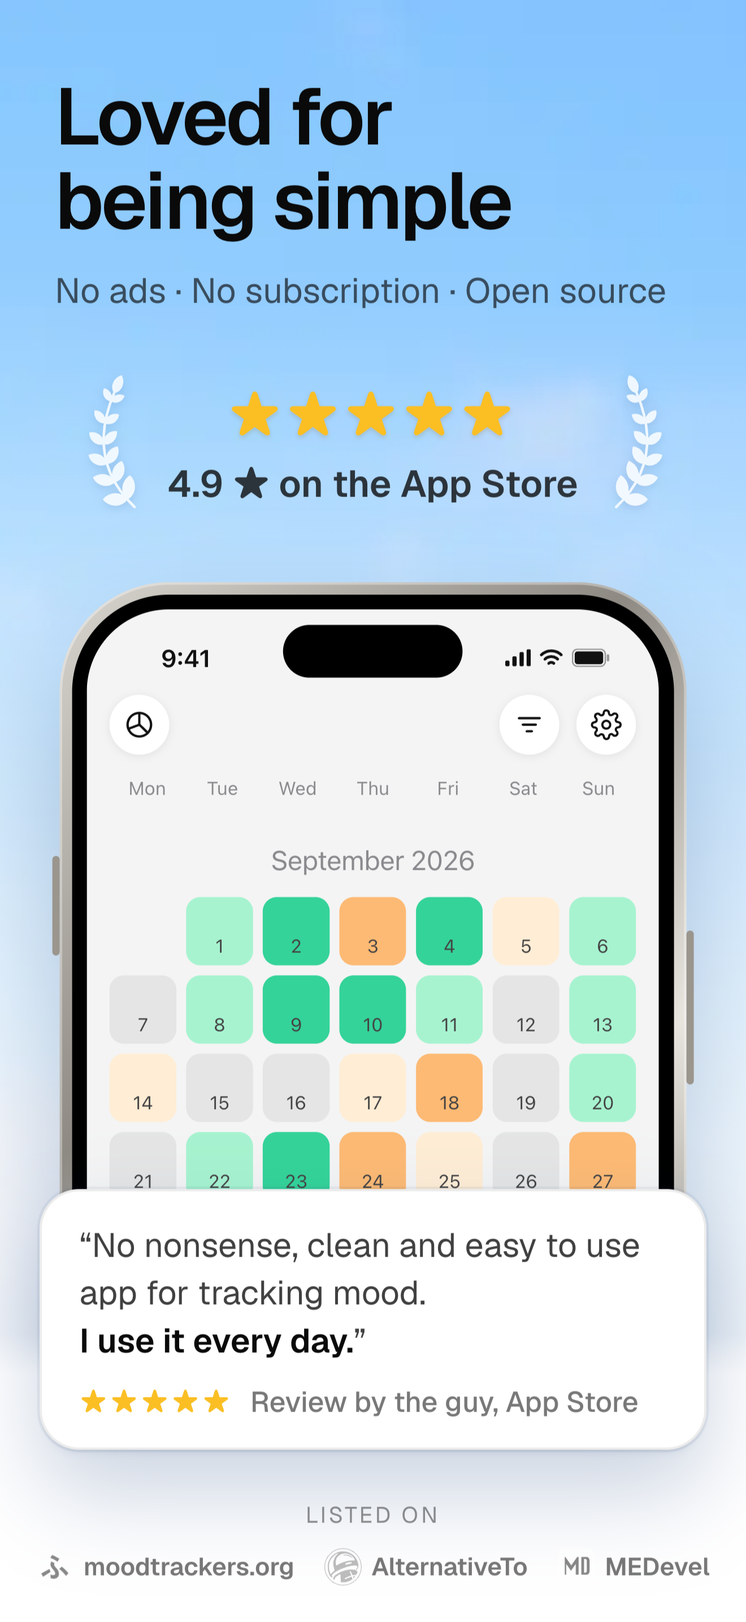
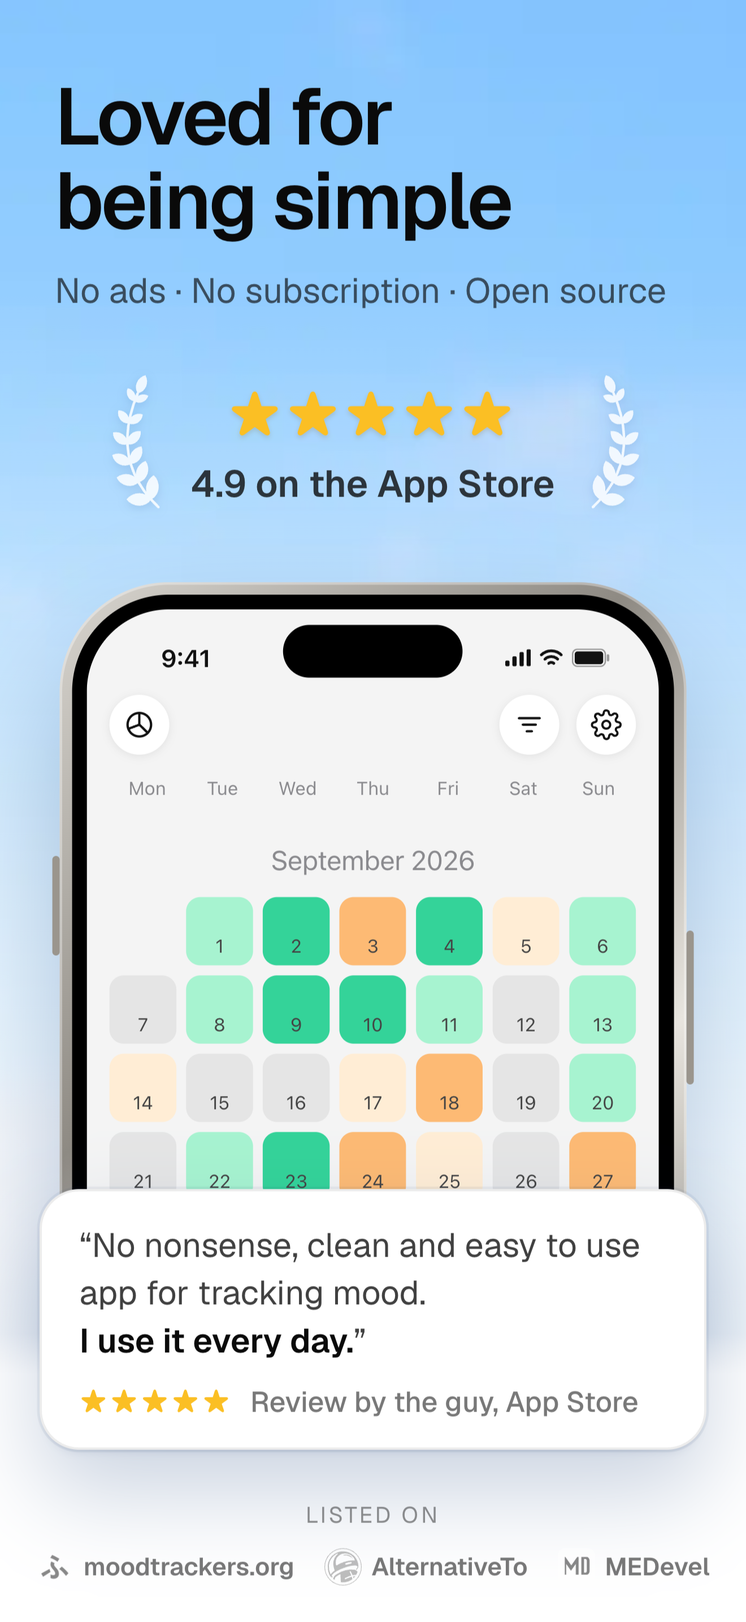
docs(store-screenshots): drop duplicate star from App Store rating line

Changed region(s): [[0.1242, 0.2172, 0.9008, 0.3103]]

diff --git a/docs/store-screenshots/index.html b/docs/store-screenshots/index.html
@@ -179,7 +179,7 @@ radial-gradient(1.4px 1.4px at 18% 10%,#fff,transparent),radial-gradient(1px 1px
 </style></head><body><main>
 <h1>Pixy store screenshots</h1>
 <p class="muted">Separate sets for the App Store and Google Play (copy and order in <code>STORES</code> in build.py). Spec: <a href="app-screens.md">app-screens.md</a>. Rebuild: <code>python3 build.py</code>, export PNGs: <code>./export.sh</code>, then serve this folder (<code>python3 -m http.server</code>).</p>
-<div class="platform"><h2>iPhone · App Store</h2></div><div class="set " data-store="apple"><div class="slot" data-name="calendar"><div class="scr "><h4 class="">Your days,<br>in pixels.</h4><div class="sub">Log a mood in seconds.</div><div class="phA" style="top:186px;left:24%;transform:translateX(-50%) rotate(-5deg) scale(.85);transform-origin:50% 0;"><div class="bz"><div class="sc" data-app="mood" data-args=''></div></div></div><div class="phA" style="top:150px;left:76%;transform:translateX(-50%) rotate(5deg) scale(.85);transform-origin:50% 0;z-index:2;"><div class="bz"><div class="sc" data-app="calendar" data-args=''></div></div></div></div><div class="lab"><b>1 · calendar.</b> Pixel calendar. Mood logger behind, calendar in front and higher.</div></div><div class="slot" data-name="year"><div class="scr "><h4 class="">Your whole year<br>at a glance</h4><div class="sub">One pixel for every day.</div><div class="phA" style="top:156px;transform:translateX(-50%) scale(var(--fit));transform-origin:50% 0;"><div class="bz"><div class="sc" data-app="year" data-args=''></div></div></div></div><div class="lab"><b>2 · year.</b> Year Report: Year in Pixels.</div></div><div class="slot" data-name="emotions"><div class="scr "><h4 class="">72 emotions,<br>each explained.</h4><div class="sub">Name what you feel.</div><div class="phA" style="top:156px;transform:translateX(-50%) scale(var(--fit));transform-origin:50% 0;"><div class="bz"><div class="sc" data-app="emotions" data-args=''></div></div></div><div class="zoom" style="top:500px"><span class="zc on" data-emo="calm"></span><span class="zc on" data-emo="hopeful"></span><span class="zc" data-emo="grateful"></span><span class="zc" data-emo="anxious"></span></div></div><div class="lab"><b>3 · emotions.</b> Logger emotions slide, Calm, Hopeful, Grateful, Anxious popped out.</div></div><div class="slot" data-name="proof"><div class="scr proof"><h4 class="">Loved for<br>being simple</h4><div class="sub">No ads · No subscription · Open source</div><div class="stats"><div class="award"><svg width="44" height="82" viewBox="-10 -12 64 116" fill="#fff" shape-rendering="geometricPrecision"><g><path d="M40 94 Q2 58 24 6" fill="none" stroke="#fff" stroke-width="2" stroke-linecap="round"/><path d="M0 0 C 6.5 -4 6.5 -14 0 -19 C -6.5 -14 -6.5 -4 0 0 Z" transform="translate(34.30 88.14) rotate(-89.7) scale(1.00)"/><path d="M0 0 C 6.5 -4 6.5 -14 0 -19 C -6.5 -14 -6.5 -4 0 0 Z" transform="translate(34.30 88.14) rotate(6.3) scale(1.00)"/><path d="M0 0 C 6.5 -4 6.5 -14 0 -19 C -6.5 -14 -6.5 -4 0 0 Z" transform="translate(24.66 74.84) rotate(-77.7) scale(0.92)"/><path d="M0 0 C 6.5 -4 6.5 -14 0 -19 C -6.5 -14 -6.5 -4 0 0 Z" transform="translate(24.66 74.84) rotate(18.3) scale(0.92)"/><path d="M0 0 C 6.5 -4 6.5 -14 0 -19 C -6.5 -14 -6.5 -4 0 0 Z" transform="translate(18.56 60.60) rotate(-64.4) scale(0.84)"/><path d="M0 0 C 6.5 -4 6.5 -14 0 -19 C -6.5 -14 -6.5 -4 0 0 Z" transform="translate(18.56 60.60) rotate(31.6) scale(0.84)"/><path d="M0 0 C 6.5 -4 6.5 -14 0 -19 C -6.5 -14 -6.5 -4 0 0 Z" transform="translate(16.02 45.40) rotate(-50.8) scale(0.76)"/><path d="M0 0 C 6.5 -4 6.5 -14 0 -19 C -6.5 -14 -6.5 -4 0 0 Z" transform="translate(16.02 45.40) rotate(45.2) scale(0.76)"/><path d="M0 0 C 6.5 -4 6.5 -14 0 -19 C -6.5 -14 -6.5 -4 0 0 Z" transform="translate(17.02 29.27) rotate(-38.5) scale(0.68)"/><path d="M0 0 C 6.5 -4 6.5 -14 0 -19 C -6.5 -14 -6.5 -4 0 0 Z" transform="translate(17.02 29.27) rotate(57.5) scale(0.68)"/><path d="M0 0 C 6.5 -4 6.5 -14 0 -19 C -6.5 -14 -6.5 -4 0 0 Z" transform="translate(21.58 12.18) rotate(-28.2) scale(0.60)"/><path d="M0 0 C 6.5 -4 6.5 -14 0 -19 C -6.5 -14 -6.5 -4 0 0 Z" transform="translate(21.58 12.18) rotate(67.8) scale(0.60)"/><path d="M0 0 C 6.5 -4 6.5 -14 0 -19 C -6.5 -14 -6.5 -4 0 0 Z" transform="translate(24.00 6.00) rotate(22.9) scale(0.8)"/></g></svg><div class="mid"><div class="rt"><span class="star">★★★★★</span></div><b>4.9 ★ on the App Store</b></div><svg width="44" height="82" viewBox="-10 -12 64 116" fill="#fff" shape-rendering="geometricPrecision"><g transform="scale(-1,1) translate(-48,0)"><path d="M40 94 Q2 58 24 6" fill="none" stroke="#fff" stroke-width="2" stroke-linecap="round"/><path d="M0 0 C 6.5 -4 6.5 -14 0 -19 C -6.5 -14 -6.5 -4 0 0 Z" transform="translate(34.30 88.14) rotate(-89.7) scale(1.00)"/><path d="M0 0 C 6.5 -4 6.5 -14 0 -19 C -6.5 -14 -6.5 -4 0 0 Z" transform="translate(34.30 88.14) rotate(6.3) scale(1.00)"/><path d="M0 0 C 6.5 -4 6.5 -14 0 -19 C -6.5 -14 -6.5 -4 0 0 Z" transform="translate(24.66 74.84) rotate(-77.7) scale(0.92)"/><path d="M0 0 C 6.5 -4 6.5 -14 0 -19 C -6.5 -14 -6.5 -4 0 0 Z" transform="translate(24.66 74.84) rotate(18.3) scale(0.92)"/><path d="M0 0 C 6.5 -4 6.5 -14 0 -19 C -6.5 -14 -6.5 -4 0 0 Z" transform="translate(18.56 60.60) rotate(-64.4) scale(0.84)"/><path d="M0 0 C 6.5 -4 6.5 -14 0 -19 C -6.5 -14 -6.5 -4 0 0 Z" transform="translate(18.56 60.60) rotate(31.6) scale(0.84)"/><path d="M0 0 C 6.5 -4 6.5 -14 0 -19 C -6.5 -14 -6.5 -4 0 0 Z" transform="translate(16.02 45.40) rotate(-50.8) scale(0.76)"/><path d="M0 0 C 6.5 -4 6.5 -14 0 -19 C -6.5 -14 -6.5 -4 0 0 Z" transform="translate(16.02 45.40) rotate(45.2) scale(0.76)"/><path d="M0 0 C 6.5 -4 6.5 -14 0 -19 C -6.5 -14 -6.5 -4 0 0 Z" transform="translate(17.02 29.27) rotate(-38.5) scale(0.68)"/><path d="M0 0 C 6.5 -4 6.5 -14 0 -19 C -6.5 -14 -6.5 -4 0 0 Z" transform="translate(17.02 29.27) rotate(57.5) scale(0.68)"/><path d="M0 0 C 6.5 -4 6.5 -14 0 -19 C -6.5 -14 -6.5 -4 0 0 Z" transform="translate(21.58 12.18) rotate(-28.2) scale(0.60)"/><path d="M0 0 C 6.5 -4 6.5 -14 0 -19 C -6.5 -14 -6.5 -4 0 0 Z" transform="translate(21.58 12.18) rotate(67.8) scale(0.60)"/><path d="M0 0 C 6.5 -4 6.5 -14 0 -19 C -6.5 -14 -6.5 -4 0 0 Z" transform="translate(24.00 6.00) rotate(22.9) scale(0.8)"/></g></svg></div></div><div class="phA" style="top:234px;"><div class="bz"><div class="sc" data-app="calendar" data-args=''></div></div></div><div class="pfade"></div><div class="qcard">“No nonsense, clean and easy to use app for tracking mood.<br><b>I use it every day.</b>”<small><span class="star">★★★★★</span>Review by the guy, App Store</small></div><div class="lbar"><div class="lo2">Listed on</div><div class="logos2"><span class="lg lgtxt"><img src="logos/moodtrackers-org.png" alt="">moodtrackers.org</span><span class="lg lgtxt"><img src="logos/alternativeto.svg" alt="">AlternativeTo</span><span class="lg lgtxt"><img src="logos/medevel.png" alt="">MEDevel</span></div></div></div><div class="lab"><b>4 · proof.</b> Social proof (App Store only): App Store rating, review card over the calendar, Listed on row.</div></div><div class="slot" data-name="stats"><div class="scr "><h4 class="">See your<br>patterns</h4><div class="sub">Mood trends and reports.</div><div class="phA" style="top:156px;transform:translateX(-50%) scale(var(--fit));transform-origin:50% 0;"><div class="bz"><div class="sc" data-app="stats" data-args=''></div></div></div></div><div class="lab"><b>5 · stats.</b> Statistics highlights: mood average, mood chart, most felt emotions.</div></div><div class="slot" data-name="tags"><div class="scr "><h4 class="">Tag what<br>matters</h4><div class="sub">Add tags and a note.</div><div class="phA" style="top:186px;left:24%;transform:translateX(-50%) rotate(-5deg) scale(.85);transform-origin:50% 0;"><div class="bz"><div class="sc" data-app="note" data-args=''></div></div></div><div class="phA" style="top:150px;left:76%;transform:translateX(-50%) rotate(5deg) scale(.85);transform-origin:50% 0;z-index:2;"><div class="bz"><div class="sc" data-app="tags" data-args=''></div></div></div><div class="zoom" style="top:500px"><span class="zc on"><i style="background:#22c55e"></i>Sport</span><span class="zc on"><i style="background:#f59e0b"></i>Hyperfocus</span><span class="zc on"><i style="background:#8b5cf6"></i>Took meds</span><span class="zc on"><i style="background:#3b82f6"></i>Meetings</span></div></div><div class="lab"><b>6 · tags.</b> Note slide behind, tags slide in front, own tags popped out.</div></div><div class="slot" data-name="sleep"><div class="scr "><h4 class="">Track your<br>sleep</h4><div class="sub">Rate each night in a tap.</div><div class="phA" style="top:156px;transform:translateX(-50%) scale(var(--fit));transform-origin:50% 0;"><div class="bz"><div class="sc" data-app="sleep" data-args=''></div></div></div><div class="popcard" data-card="sleepchart" style="left:50%;top:430px;transform:translateX(-50%) scale(.7);transform-origin:50% 0"></div></div><div class="lab"><b>7 · sleep.</b> Sleep slide, sleep quality chart popped out.</div></div><div class="slot" data-name="data"><div class="scr "><h4 class="">No account.<br>No sign-up.</h4><div class="sub">Export or delete your data anytime.</div><div class="phA" style="top:156px;transform:translateX(-50%) scale(var(--fit));transform-origin:50% 0;"><div class="bz"><div class="sc" data-app="data" data-args=''></div></div></div><div class="zoom checks" style="top:440px"><div><svg width="22" height="22" viewBox="0 0 22 22"><circle cx="11" cy="11" r="10" fill="none" stroke="#34d399" stroke-width="1.6"/><path d="M6.5 11.5l3 3L15.5 8" stroke="#34d399" stroke-width="2" fill="none" stroke-linecap="round" stroke-linejoin="round"/></svg>No cloud sync</div><div><svg width="22" height="22" viewBox="0 0 22 22"><circle cx="11" cy="11" r="10" fill="none" stroke="#34d399" stroke-width="1.6"/><path d="M6.5 11.5l3 3L15.5 8" stroke="#34d399" stroke-width="2" fill="none" stroke-linecap="round" stroke-linejoin="round"/></svg>Export as JSON or CSV</div><div><svg width="22" height="22" viewBox="0 0 22 22"><circle cx="11" cy="11" r="10" fill="none" stroke="#34d399" stroke-width="1.6"/><path d="M6.5 11.5l3 3L15.5 8" stroke="#34d399" stroke-width="2" fill="none" stroke-linecap="round" stroke-linejoin="round"/></svg>Import on a new phone</div><div><svg width="22" height="22" viewBox="0 0 22 22"><circle cx="11" cy="11" r="10" fill="none" stroke="#34d399" stroke-width="1.6"/><path d="M6.5 11.5l3 3L15.5 8" stroke="#34d399" stroke-width="2" fill="none" stroke-linecap="round" stroke-linejoin="round"/></svg>No ads</div><div><svg width="22" height="22" viewBox="0 0 22 22"><circle cx="11" cy="11" r="10" fill="none" stroke="#34d399" stroke-width="1.6"/><path d="M6.5 11.5l3 3L15.5 8" stroke="#34d399" stroke-width="2" fill="none" stroke-linecap="round" stroke-linejoin="round"/></svg>Open source</div></div></div><div class="lab"><b>8 · data.</b> Settings > Data: import, JSON/CSV export, delete. Checklist card.</div></div></div>
+<div class="platform"><h2>iPhone · App Store</h2></div><div class="set " data-store="apple"><div class="slot" data-name="calendar"><div class="scr "><h4 class="">Your days,<br>in pixels.</h4><div class="sub">Log a mood in seconds.</div><div class="phA" style="top:186px;left:24%;transform:translateX(-50%) rotate(-5deg) scale(.85);transform-origin:50% 0;"><div class="bz"><div class="sc" data-app="mood" data-args=''></div></div></div><div class="phA" style="top:150px;left:76%;transform:translateX(-50%) rotate(5deg) scale(.85);transform-origin:50% 0;z-index:2;"><div class="bz"><div class="sc" data-app="calendar" data-args=''></div></div></div></div><div class="lab"><b>1 · calendar.</b> Pixel calendar. Mood logger behind, calendar in front and higher.</div></div><div class="slot" data-name="year"><div class="scr "><h4 class="">Your whole year<br>at a glance</h4><div class="sub">One pixel for every day.</div><div class="phA" style="top:156px;transform:translateX(-50%) scale(var(--fit));transform-origin:50% 0;"><div class="bz"><div class="sc" data-app="year" data-args=''></div></div></div></div><div class="lab"><b>2 · year.</b> Year Report: Year in Pixels.</div></div><div class="slot" data-name="emotions"><div class="scr "><h4 class="">72 emotions,<br>each explained.</h4><div class="sub">Name what you feel.</div><div class="phA" style="top:156px;transform:translateX(-50%) scale(var(--fit));transform-origin:50% 0;"><div class="bz"><div class="sc" data-app="emotions" data-args=''></div></div></div><div class="zoom" style="top:500px"><span class="zc on" data-emo="calm"></span><span class="zc on" data-emo="hopeful"></span><span class="zc" data-emo="grateful"></span><span class="zc" data-emo="anxious"></span></div></div><div class="lab"><b>3 · emotions.</b> Logger emotions slide, Calm, Hopeful, Grateful, Anxious popped out.</div></div><div class="slot" data-name="proof"><div class="scr proof"><h4 class="">Loved for<br>being simple</h4><div class="sub">No ads · No subscription · Open source</div><div class="stats"><div class="award"><svg width="44" height="82" viewBox="-10 -12 64 116" fill="#fff" shape-rendering="geometricPrecision"><g><path d="M40 94 Q2 58 24 6" fill="none" stroke="#fff" stroke-width="2" stroke-linecap="round"/><path d="M0 0 C 6.5 -4 6.5 -14 0 -19 C -6.5 -14 -6.5 -4 0 0 Z" transform="translate(34.30 88.14) rotate(-89.7) scale(1.00)"/><path d="M0 0 C 6.5 -4 6.5 -14 0 -19 C -6.5 -14 -6.5 -4 0 0 Z" transform="translate(34.30 88.14) rotate(6.3) scale(1.00)"/><path d="M0 0 C 6.5 -4 6.5 -14 0 -19 C -6.5 -14 -6.5 -4 0 0 Z" transform="translate(24.66 74.84) rotate(-77.7) scale(0.92)"/><path d="M0 0 C 6.5 -4 6.5 -14 0 -19 C -6.5 -14 -6.5 -4 0 0 Z" transform="translate(24.66 74.84) rotate(18.3) scale(0.92)"/><path d="M0 0 C 6.5 -4 6.5 -14 0 -19 C -6.5 -14 -6.5 -4 0 0 Z" transform="translate(18.56 60.60) rotate(-64.4) scale(0.84)"/><path d="M0 0 C 6.5 -4 6.5 -14 0 -19 C -6.5 -14 -6.5 -4 0 0 Z" transform="translate(18.56 60.60) rotate(31.6) scale(0.84)"/><path d="M0 0 C 6.5 -4 6.5 -14 0 -19 C -6.5 -14 -6.5 -4 0 0 Z" transform="translate(16.02 45.40) rotate(-50.8) scale(0.76)"/><path d="M0 0 C 6.5 -4 6.5 -14 0 -19 C -6.5 -14 -6.5 -4 0 0 Z" transform="translate(16.02 45.40) rotate(45.2) scale(0.76)"/><path d="M0 0 C 6.5 -4 6.5 -14 0 -19 C -6.5 -14 -6.5 -4 0 0 Z" transform="translate(17.02 29.27) rotate(-38.5) scale(0.68)"/><path d="M0 0 C 6.5 -4 6.5 -14 0 -19 C -6.5 -14 -6.5 -4 0 0 Z" transform="translate(17.02 29.27) rotate(57.5) scale(0.68)"/><path d="M0 0 C 6.5 -4 6.5 -14 0 -19 C -6.5 -14 -6.5 -4 0 0 Z" transform="translate(21.58 12.18) rotate(-28.2) scale(0.60)"/><path d="M0 0 C 6.5 -4 6.5 -14 0 -19 C -6.5 -14 -6.5 -4 0 0 Z" transform="translate(21.58 12.18) rotate(67.8) scale(0.60)"/><path d="M0 0 C 6.5 -4 6.5 -14 0 -19 C -6.5 -14 -6.5 -4 0 0 Z" transform="translate(24.00 6.00) rotate(22.9) scale(0.8)"/></g></svg><div class="mid"><div class="rt"><span class="star">★★★★★</span></div><b>4.9 on the App Store</b></div><svg width="44" height="82" viewBox="-10 -12 64 116" fill="#fff" shape-rendering="geometricPrecision"><g transform="scale(-1,1) translate(-48,0)"><path d="M40 94 Q2 58 24 6" fill="none" stroke="#fff" stroke-width="2" stroke-linecap="round"/><path d="M0 0 C 6.5 -4 6.5 -14 0 -19 C -6.5 -14 -6.5 -4 0 0 Z" transform="translate(34.30 88.14) rotate(-89.7) scale(1.00)"/><path d="M0 0 C 6.5 -4 6.5 -14 0 -19 C -6.5 -14 -6.5 -4 0 0 Z" transform="translate(34.30 88.14) rotate(6.3) scale(1.00)"/><path d="M0 0 C 6.5 -4 6.5 -14 0 -19 C -6.5 -14 -6.5 -4 0 0 Z" transform="translate(24.66 74.84) rotate(-77.7) scale(0.92)"/><path d="M0 0 C 6.5 -4 6.5 -14 0 -19 C -6.5 -14 -6.5 -4 0 0 Z" transform="translate(24.66 74.84) rotate(18.3) scale(0.92)"/><path d="M0 0 C 6.5 -4 6.5 -14 0 -19 C -6.5 -14 -6.5 -4 0 0 Z" transform="translate(18.56 60.60) rotate(-64.4) scale(0.84)"/><path d="M0 0 C 6.5 -4 6.5 -14 0 -19 C -6.5 -14 -6.5 -4 0 0 Z" transform="translate(18.56 60.60) rotate(31.6) scale(0.84)"/><path d="M0 0 C 6.5 -4 6.5 -14 0 -19 C -6.5 -14 -6.5 -4 0 0 Z" transform="translate(16.02 45.40) rotate(-50.8) scale(0.76)"/><path d="M0 0 C 6.5 -4 6.5 -14 0 -19 C -6.5 -14 -6.5 -4 0 0 Z" transform="translate(16.02 45.40) rotate(45.2) scale(0.76)"/><path d="M0 0 C 6.5 -4 6.5 -14 0 -19 C -6.5 -14 -6.5 -4 0 0 Z" transform="translate(17.02 29.27) rotate(-38.5) scale(0.68)"/><path d="M0 0 C 6.5 -4 6.5 -14 0 -19 C -6.5 -14 -6.5 -4 0 0 Z" transform="translate(17.02 29.27) rotate(57.5) scale(0.68)"/><path d="M0 0 C 6.5 -4 6.5 -14 0 -19 C -6.5 -14 -6.5 -4 0 0 Z" transform="translate(21.58 12.18) rotate(-28.2) scale(0.60)"/><path d="M0 0 C 6.5 -4 6.5 -14 0 -19 C -6.5 -14 -6.5 -4 0 0 Z" transform="translate(21.58 12.18) rotate(67.8) scale(0.60)"/><path d="M0 0 C 6.5 -4 6.5 -14 0 -19 C -6.5 -14 -6.5 -4 0 0 Z" transform="translate(24.00 6.00) rotate(22.9) scale(0.8)"/></g></svg></div></div><div class="phA" style="top:234px;"><div class="bz"><div class="sc" data-app="calendar" data-args=''></div></div></div><div class="pfade"></div><div class="qcard">“No nonsense, clean and easy to use app for tracking mood.<br><b>I use it every day.</b>”<small><span class="star">★★★★★</span>Review by the guy, App Store</small></div><div class="lbar"><div class="lo2">Listed on</div><div class="logos2"><span class="lg lgtxt"><img src="logos/moodtrackers-org.png" alt="">moodtrackers.org</span><span class="lg lgtxt"><img src="logos/alternativeto.svg" alt="">AlternativeTo</span><span class="lg lgtxt"><img src="logos/medevel.png" alt="">MEDevel</span></div></div></div><div class="lab"><b>4 · proof.</b> Social proof (App Store only): App Store rating, review card over the calendar, Listed on row.</div></div><div class="slot" data-name="stats"><div class="scr "><h4 class="">See your<br>patterns</h4><div class="sub">Mood trends and reports.</div><div class="phA" style="top:156px;transform:translateX(-50%) scale(var(--fit));transform-origin:50% 0;"><div class="bz"><div class="sc" data-app="stats" data-args=''></div></div></div></div><div class="lab"><b>5 · stats.</b> Statistics highlights: mood average, mood chart, most felt emotions.</div></div><div class="slot" data-name="tags"><div class="scr "><h4 class="">Tag what<br>matters</h4><div class="sub">Add tags and a note.</div><div class="phA" style="top:186px;left:24%;transform:translateX(-50%) rotate(-5deg) scale(.85);transform-origin:50% 0;"><div class="bz"><div class="sc" data-app="note" data-args=''></div></div></div><div class="phA" style="top:150px;left:76%;transform:translateX(-50%) rotate(5deg) scale(.85);transform-origin:50% 0;z-index:2;"><div class="bz"><div class="sc" data-app="tags" data-args=''></div></div></div><div class="zoom" style="top:500px"><span class="zc on"><i style="background:#22c55e"></i>Sport</span><span class="zc on"><i style="background:#f59e0b"></i>Hyperfocus</span><span class="zc on"><i style="background:#8b5cf6"></i>Took meds</span><span class="zc on"><i style="background:#3b82f6"></i>Meetings</span></div></div><div class="lab"><b>6 · tags.</b> Note slide behind, tags slide in front, own tags popped out.</div></div><div class="slot" data-name="sleep"><div class="scr "><h4 class="">Track your<br>sleep</h4><div class="sub">Rate each night in a tap.</div><div class="phA" style="top:156px;transform:translateX(-50%) scale(var(--fit));transform-origin:50% 0;"><div class="bz"><div class="sc" data-app="sleep" data-args=''></div></div></div><div class="popcard" data-card="sleepchart" style="left:50%;top:430px;transform:translateX(-50%) scale(.7);transform-origin:50% 0"></div></div><div class="lab"><b>7 · sleep.</b> Sleep slide, sleep quality chart popped out.</div></div><div class="slot" data-name="data"><div class="scr "><h4 class="">No account.<br>No sign-up.</h4><div class="sub">Export or delete your data anytime.</div><div class="phA" style="top:156px;transform:translateX(-50%) scale(var(--fit));transform-origin:50% 0;"><div class="bz"><div class="sc" data-app="data" data-args=''></div></div></div><div class="zoom checks" style="top:440px"><div><svg width="22" height="22" viewBox="0 0 22 22"><circle cx="11" cy="11" r="10" fill="none" stroke="#34d399" stroke-width="1.6"/><path d="M6.5 11.5l3 3L15.5 8" stroke="#34d399" stroke-width="2" fill="none" stroke-linecap="round" stroke-linejoin="round"/></svg>No cloud sync</div><div><svg width="22" height="22" viewBox="0 0 22 22"><circle cx="11" cy="11" r="10" fill="none" stroke="#34d399" stroke-width="1.6"/><path d="M6.5 11.5l3 3L15.5 8" stroke="#34d399" stroke-width="2" fill="none" stroke-linecap="round" stroke-linejoin="round"/></svg>Export as JSON or CSV</div><div><svg width="22" height="22" viewBox="0 0 22 22"><circle cx="11" cy="11" r="10" fill="none" stroke="#34d399" stroke-width="1.6"/><path d="M6.5 11.5l3 3L15.5 8" stroke="#34d399" stroke-width="2" fill="none" stroke-linecap="round" stroke-linejoin="round"/></svg>Import on a new phone</div><div><svg width="22" height="22" viewBox="0 0 22 22"><circle cx="11" cy="11" r="10" fill="none" stroke="#34d399" stroke-width="1.6"/><path d="M6.5 11.5l3 3L15.5 8" stroke="#34d399" stroke-width="2" fill="none" stroke-linecap="round" stroke-linejoin="round"/></svg>No ads</div><div><svg width="22" height="22" viewBox="0 0 22 22"><circle cx="11" cy="11" r="10" fill="none" stroke="#34d399" stroke-width="1.6"/><path d="M6.5 11.5l3 3L15.5 8" stroke="#34d399" stroke-width="2" fill="none" stroke-linecap="round" stroke-linejoin="round"/></svg>Open source</div></div></div><div class="lab"><b>8 · data.</b> Settings > Data: import, JSON/CSV export, delete. Checklist card.</div></div></div>
 <div class="platform"><h2>Android · Google Play</h2></div><div class="set android-set" data-store="play"><div class="slot" data-name="calendar"><div class="scr "><div class="k">Mood journal</div><h4 class="">Your days,<br>in pixels.</h4><div class="sub">Rate your day in seconds. Each day<br>becomes one colored square.</div><div class="phA" style="top:214px;left:24%;transform:translateX(-50%) rotate(-5deg) scale(.85);transform-origin:50% 0;"><div class="bz"><div class="sc" data-app="mood" data-args=''></div></div></div><div class="phA" style="top:178px;left:76%;transform:translateX(-50%) rotate(5deg) scale(.85);transform-origin:50% 0;z-index:2;"><div class="bz"><div class="sc" data-app="calendar" data-args=''></div></div></div></div><div class="lab"><b>1 · calendar.</b> Pixel calendar. Mood logger behind, calendar in front and higher.</div></div><div class="slot" data-name="year"><div class="scr "><div class="k">Year in Pixels</div><h4 class="">Your whole year<br>at a glance</h4><div class="sub">One pixel per day, a full year<br>on one screen.</div><div class="phA" style="top:184px;transform:translateX(-50%) scale(var(--fit));transform-origin:50% 0;"><div class="bz"><div class="sc" data-app="year" data-args=''></div></div></div></div><div class="lab"><b>2 · year.</b> Year Report: Year in Pixels.</div></div><div class="slot" data-name="emotions"><div class="scr "><div class="k">Emotions</div><h4 class="">Name what<br>you feel.</h4><div class="sub">72 emotions, each with a short<br>explanation.</div><div class="phA" style="top:184px;transform:translateX(-50%) scale(var(--fit));transform-origin:50% 0;"><div class="bz"><div class="sc" data-app="emotions" data-args=''></div></div></div><div class="zoom" style="top:400px"><span class="zc on" data-emo="calm"></span><span class="zc on" data-emo="hopeful"></span><span class="zc" data-emo="grateful"></span><span class="zc" data-emo="anxious"></span></div></div><div class="lab"><b>3 · emotions.</b> Logger emotions slide, Calm, Hopeful, Grateful, Anxious popped out.</div></div><div class="slot" data-name="tags"><div class="scr "><div class="k">Tags and notes</div><h4 class="">Tag what<br>matters</h4><div class="sub">Create your own tags. Add a note<br>to any entry.</div><div class="phA" style="top:214px;left:24%;transform:translateX(-50%) rotate(-5deg) scale(.85);transform-origin:50% 0;"><div class="bz"><div class="sc" data-app="note" data-args=''></div></div></div><div class="phA" style="top:178px;left:76%;transform:translateX(-50%) rotate(5deg) scale(.85);transform-origin:50% 0;z-index:2;"><div class="bz"><div class="sc" data-app="tags" data-args=''></div></div></div><div class="zoom" style="top:400px"><span class="zc on"><i style="background:#22c55e"></i>Sport</span><span class="zc on"><i style="background:#f59e0b"></i>Hyperfocus</span><span class="zc on"><i style="background:#8b5cf6"></i>Took meds</span><span class="zc on"><i style="background:#3b82f6"></i>Meetings</span></div></div><div class="lab"><b>4 · tags.</b> Note slide behind, tags slide in front, own tags popped out.</div></div><div class="slot" data-name="stats"><div class="scr "><div class="k">Statistics</div><h4 class="">Spot your<br>patterns</h4><div class="sub">Mood trends, most felt emotions,<br>month and year reports.</div><div class="phA" style="top:184px;transform:translateX(-50%) scale(var(--fit));transform-origin:50% 0;"><div class="bz"><div class="sc" data-app="stats" data-args=''></div></div></div></div><div class="lab"><b>5 · stats.</b> Statistics highlights: mood average, mood chart, most felt emotions.</div></div><div class="slot" data-name="sleep"><div class="scr "><div class="k">Sleep</div><h4 class="">Track how<br>you sleep</h4><div class="sub">Rate each night and follow the<br>trend in your statistics.</div><div class="phA" style="top:184px;transform:translateX(-50%) scale(var(--fit));transform-origin:50% 0;"><div class="bz"><div class="sc" data-app="sleep" data-args=''></div></div></div><div class="popcard" data-card="sleepchart" style="left:50%;top:360px;transform:translateX(-50%) scale(.7);transform-origin:50% 0"></div></div><div class="lab"><b>6 · sleep.</b> Sleep slide, sleep quality chart popped out.</div></div><div class="slot" data-name="switch"><div class="scr "><div class="k">Import and export</div><h4 class="">Import from other<br>Mood Trackers</h4><div class="sub">Convert exports from 21 mood and<br>journal apps with Pixy Switch.</div><div class="xfer" style="top:176px"><div class="xf" style="transform:rotate(-7deg)"><span class="xt" style="background:#f97316;color:#f97316"><svg width="22" height="26" viewBox="0 0 22 26"><path d="M3 1h11l7 7v15a2 2 0 0 1-2 2H3a2 2 0 0 1-2-2V3a2 2 0 0 1 2-2z" fill="#fff"/><path d="M14 1v7h7" fill="rgba(0,0,0,.18)"/><path d="M5 13h12M5 17h12M5 21h8" stroke="currentColor" stroke-width="1.6" stroke-linecap="round" opacity=".55"/></svg></span><span class="xc">.csv</span></div><div class="xf" style="transform:rotate(0deg)"><span class="xt" style="background:#8b5cf6;color:#8b5cf6"><svg width="22" height="26" viewBox="0 0 22 26"><path d="M3 1h11l7 7v15a2 2 0 0 1-2 2H3a2 2 0 0 1-2-2V3a2 2 0 0 1 2-2z" fill="#fff"/><path d="M14 1v7h7" fill="rgba(0,0,0,.18)"/><path d="M5 13h12M5 17h12M5 21h8" stroke="currentColor" stroke-width="1.6" stroke-linecap="round" opacity=".55"/></svg></span><span class="xc">.json</span></div><div class="xf" style="transform:rotate(7deg)"><span class="xt" style="background:#0ea5e9;color:#0ea5e9"><svg width="22" height="26" viewBox="0 0 22 26"><path d="M3 1h11l7 7v15a2 2 0 0 1-2 2H3a2 2 0 0 1-2-2V3a2 2 0 0 1 2-2z" fill="#fff"/><path d="M14 1v7h7" fill="rgba(0,0,0,.18)"/><path d="M5 13h12M5 17h12M5 21h8" stroke="currentColor" stroke-width="1.6" stroke-linecap="round" opacity=".55"/></svg></span><span class="xc">.zip</span></div><div class="xa"><svg width="12" height="16" viewBox="0 0 14 22" fill="none" stroke="#0a0a0a" stroke-width="2" stroke-linecap="round" stroke-linejoin="round"><path d="M7 1v19M1.5 14.5 7 20l5.5-5.5"/></svg><b>Pixy Switch</b></div></div><div class="phA" style="top:324px;transform:translateX(-50%) scale(var(--fit));transform-origin:50% 0;"><div class="bz"><div class="sc" data-app="calendar" data-args=''></div></div></div></div><div class="lab"><b>7 · switch.</b> Three unbranded export files (.csv, .json, .zip) flow through Pixy Switch into the calendar. No other app names or logos.</div></div><div class="slot" data-name="noaccount"><div class="scr dark"><div class="k">No account</div><h4 class="">No account.<br>No sign-up.</h4><div class="sub">Open Pixy and log your first day.</div><div class="plist"><div><svg width="22" height="22" viewBox="0 0 22 22"><circle cx="11" cy="11" r="10" fill="none" stroke="#34d399" stroke-width="1.6"/><path d="M6.5 11.5l3 3L15.5 8" stroke="#34d399" stroke-width="2" fill="none" stroke-linecap="round" stroke-linejoin="round"/></svg>No account needed</div><div><svg width="22" height="22" viewBox="0 0 22 22"><circle cx="11" cy="11" r="10" fill="none" stroke="#34d399" stroke-width="1.6"/><path d="M6.5 11.5l3 3L15.5 8" stroke="#34d399" stroke-width="2" fill="none" stroke-linecap="round" stroke-linejoin="round"/></svg>Export as JSON or CSV</div><div><svg width="22" height="22" viewBox="0 0 22 22"><circle cx="11" cy="11" r="10" fill="none" stroke="#34d399" stroke-width="1.6"/><path d="M6.5 11.5l3 3L15.5 8" stroke="#34d399" stroke-width="2" fill="none" stroke-linecap="round" stroke-linejoin="round"/></svg>Import on a new phone</div><div><svg width="22" height="22" viewBox="0 0 22 22"><circle cx="11" cy="11" r="10" fill="none" stroke="#34d399" stroke-width="1.6"/><path d="M6.5 11.5l3 3L15.5 8" stroke="#34d399" stroke-width="2" fill="none" stroke-linecap="round" stroke-linejoin="round"/></svg>Delete your data anytime</div><div><svg width="22" height="22" viewBox="0 0 22 22"><circle cx="11" cy="11" r="10" fill="none" stroke="#34d399" stroke-width="1.6"/><path d="M6.5 11.5l3 3L15.5 8" stroke="#34d399" stroke-width="2" fill="none" stroke-linecap="round" stroke-linejoin="round"/></svg>Open source</div></div></div><div class="lab"><b>8 · noaccount.</b> Dark checklist frame (night sky), list mid-screen.</div></div></div>
 <div class="platform"><h2>App Store · header and search results</h2></div>
 <div class="cvset">
@@ -205,7 +205,7 @@ radial-gradient(1.4px 1.4px at 18% 10%,#fff,transparent),radial-gradient(1px 1px
   <div class="phA" style="top:96px;left:auto;right:-190px;transform:rotate(7deg) scale(1.25);z-index:1;"><div class="bz"><div class="sc" data-app="year" data-args=''></div></div></div>
  </div><div class="lab"><b>Google Play feature graphic</b> 1024x500 (rendered 2x, downsampled). Pixy Mood Journal lockup + headline left (no price, rating, or download claims), calendar and year in pixels right.</div></div>
 </div></main>
-<script src="https://unpkg.com/lucide@0.460.0/dist/umd/lucide.min.js"></script><script src="emotion-icons.js?v=1792948755"></script><script src="appscreens.js?v=1792948755"></script><script>
+<script src="https://unpkg.com/lucide@0.460.0/dist/umd/lucide.min.js"></script><script src="emotion-icons.js?v=1792949004"></script><script src="appscreens.js?v=1792949004"></script><script>
 document.head.insertAdjacentHTML('beforeend','<style>'+APP.css+'</style>');
 document.querySelectorAll('[data-app]').forEach(el=>{window.PIXY_OS=el.closest('.android-set')?'android':'ios';const a=(el.dataset.args||'').split(',').filter(Boolean);el.innerHTML=APP.render(el.dataset.app,a[0]||undefined,a[1]==='dark')});window.PIXY_OS='ios';
 document.querySelectorAll('[data-card]').forEach(el=>el.innerHTML='<div class="ps">'+APP.card(el.dataset.card)+'</div>');

diff --git a/docs/store-screenshots/build.py b/docs/store-screenshots/build.py
@@ -232,7 +232,7 @@ def laurel(flip=False):
 # App Store only: Google Play bans ratings, testimonials, and awards in screenshots.
 LISTED = (("moodtrackers-org.png", "moodtrackers.org"), ("alternativeto.svg", "AlternativeTo"), ("medevel.png", "MEDevel"))
 PROOF = (
-    f'<div class="stats"><div class="award">{laurel()}<div class="mid"><div class="rt"><span class="star">★★★★★</span></div><b>4.9 ★ on the App Store</b></div>{laurel(True)}</div></div>'
+    f'<div class="stats"><div class="award">{laurel()}<div class="mid"><div class="rt"><span class="star">★★★★★</span></div><b>4.9 on the App Store</b></div>{laurel(True)}</div></div>'
     + phone('calendar', '{t}')
     + '<div class="pfade"></div>'
     + '<div class="qcard">“No nonsense, clean and easy to use app for tracking mood.<br><b>I use it every day.</b>”<small><span class="star">★★★★★</span>Review by the guy, App Store</small></div>'
